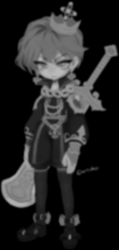
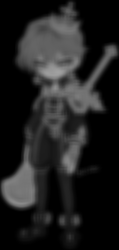
add 8x8 kernel

diff --git a/gaussian-blur/main.go b/gaussian-blur/main.go
@@ -18,6 +18,17 @@ var gaussianKernel3x3 = matrix{
 	[]float64{1.0 / 16.0, 1.0 / 8.0, 1.0 / 16.0},
 }
 
+var gaussianKernel8x8 = matrix{
+	[]float64{1.0 / 256.0, 1.0 / 128.0, 1.0 / 256.0, 1.0 / 128.0, 1.0 / 64.0, 1.0 / 128.0, 1.0 / 256.0, 1.0 / 128.0},
+	[]float64{1.0 / 128.0, 1.0 / 64.0, 1.0 / 128.0, 1.0 / 64.0, 1.0 / 32.0, 1.0 / 64.0, 1.0 / 128.0, 1.0 / 64.0},
+	[]float64{1.0 / 256.0, 1.0 / 128.0, 1.0 / 256.0, 1.0 / 128.0, 1.0 / 64.0, 1.0 / 128.0, 1.0 / 256.0, 1.0 / 128.0},
+	[]float64{1.0 / 128.0, 1.0 / 64.0, 1.0 / 128.0, 1.0 / 64.0, 1.0 / 32.0, 1.0 / 64.0, 1.0 / 128.0, 1.0 / 64.0},
+	[]float64{1.0 / 64.0, 1.0 / 32.0, 1.0 / 64.0, 1.0 / 32.0, 1.0 / 16.0, 1.0 / 32.0, 1.0 / 64.0, 1.0 / 32.0},
+	[]float64{1.0 / 128.0, 1.0 / 64.0, 1.0 / 128.0, 1.0 / 64.0, 1.0 / 32.0, 1.0 / 64.0, 1.0 / 128.0, 1.0 / 64.0},
+	[]float64{1.0 / 256.0, 1.0 / 128.0, 1.0 / 256.0, 1.0 / 128.0, 1.0 / 64.0, 1.0 / 128.0, 1.0 / 256.0, 1.0 / 128.0},
+	[]float64{1.0 / 128.0, 1.0 / 64.0, 1.0 / 128.0, 1.0 / 64.0, 1.0 / 32.0, 1.0 / 64.0, 1.0 / 128.0, 1.0 / 64.0},
+}
+
 // TODO: Bruh, copy pasted from internet, find a way to generate this kernel
 var gaussianKernel16x16 = matrix{
 	{2.0e-06, 8.0e-06, 2.0e-05, 4.0e-05, 5.0e-05, 4.0e-05, 2.0e-05, 8.0e-06, 2.0e-06, 8.0e-06, 2.0e-05, 3.0e-05, 2.0e-05, 8.0e-06, 2.0e-06, 1.0e-07},
@@ -79,7 +90,7 @@ func main() {
 
 	fmt.Printf("Dimension => x: %v y: %v\n", img.Bounds().Dx(), img.Bounds().Dy())
 
-	newImg := gaussianBlur(img, gaussianKernel16x16)
+	newImg := gaussianBlur(img, gaussianKernel8x8)
 	outputFile, err := os.Create("out.png")
 	if err != nil {
 		logError(err)
@@ -89,7 +100,7 @@ func main() {
 }
 
 func gaussianBlur(img image.Image, kernel matrix) image.Image {
-	newImg := image.NewGray(img.Bounds())
+	newImg := image.NewRGBA(img.Bounds())
 	in := make(matrix, img.Bounds().Dx())
 	for i := range in {
 		in[i] = make([]float64, img.Bounds().Dy())
@@ -106,9 +117,9 @@ func gaussianBlur(img image.Image, kernel matrix) image.Image {
 	mat := convolution(in, kernel)
 	for x := 0; x < img.Bounds().Dx(); x++ {
 		for y := 0; y < img.Bounds().Dy(); y++ {
-			newImg.Set(x, y, color.Gray{
-				Y: uint8(mat[x][y]),
-			})
+			// _, _, _, a := img.At(x, y).RGBA()
+			gr := uint8(mat[x][y])
+			newImg.Set(x, y, color.Gray{Y: gr})
 		}
 	}
 
